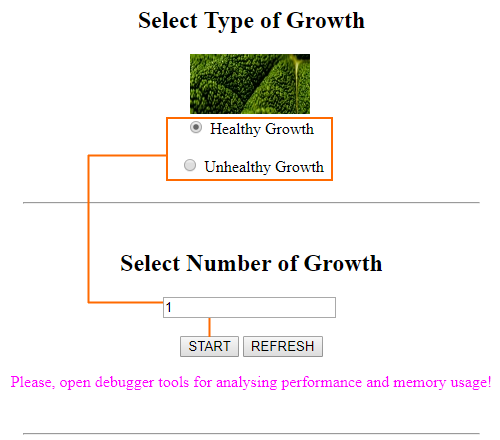
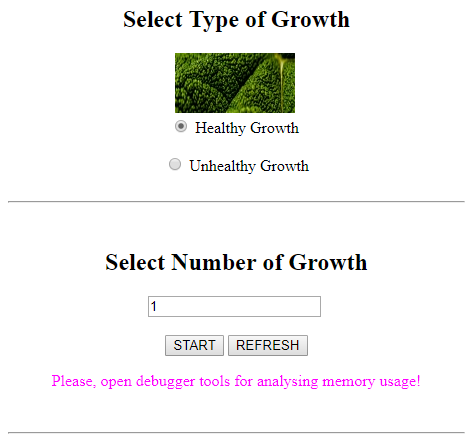
Text information update
Changed information text and the depending result on the picture Figure1.png

diff --git a/index.html b/index.html
@@ -63,7 +63,7 @@
 			<button type="button" onclick="numOfGrowth();">START</button>
 			<button type="button" onclick="refresh();">REFRESH</button>
 			
-			<p style="color:magenta;">Please, open debugger tools for analysing performance and memory usage!</p>
+			<p style="color:magenta;">Please, open debugger tools for analysing memory usage!</p>
 			
 		</section>
 		
